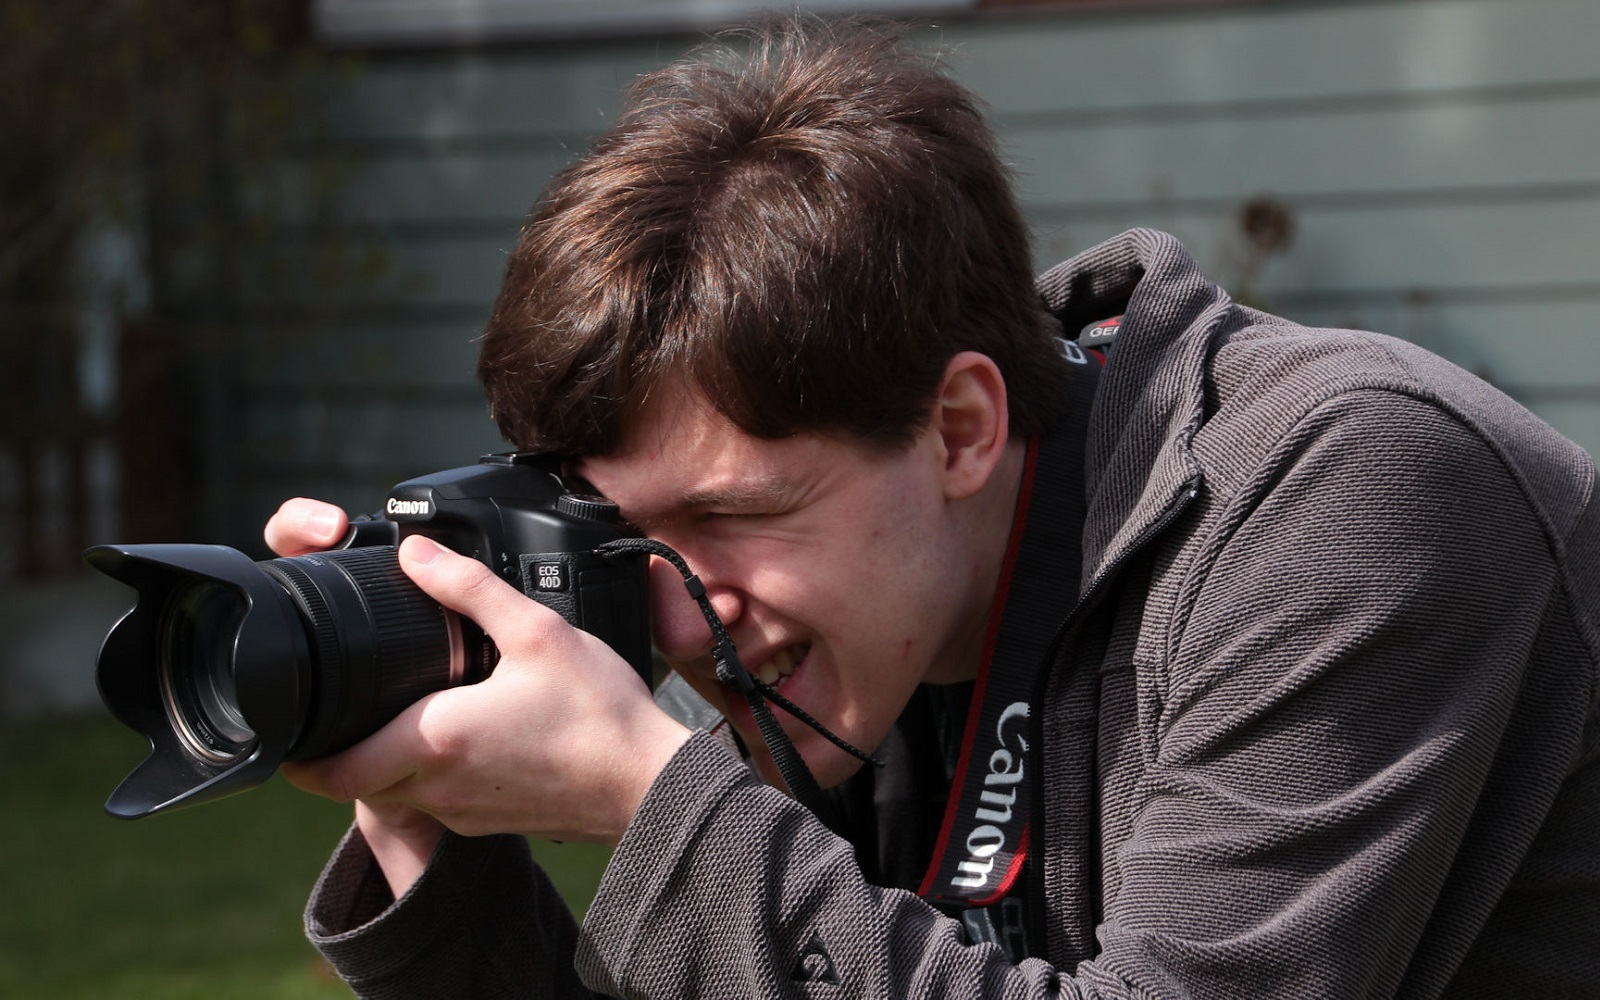
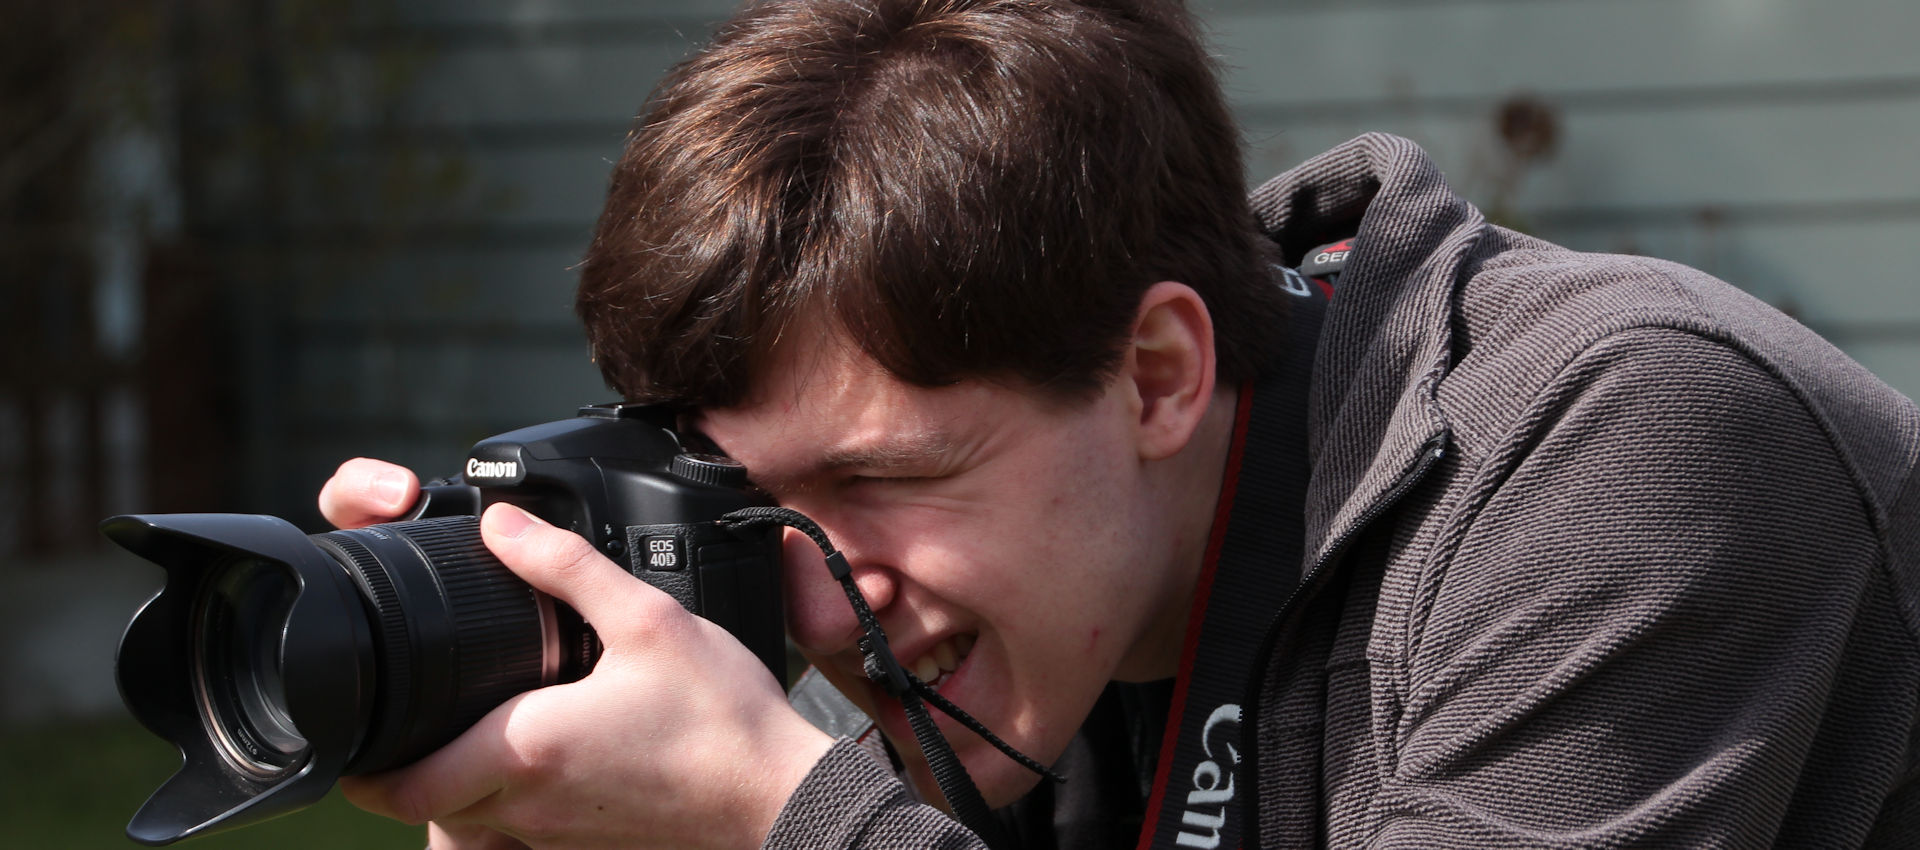
Website Submission 2
Site Wide:
- Corrected minor spelling and grammar errors
- Added drop shadow to images for better visibility
- Updated font to Roboto across the whole site
- Changed line spacing to improve readability
- Made all top photos the same aspect ratio for consistency

index.html
- Centered the text between he image and the edge of the site

design.html
- Added a top image

diff --git a/photography.html b/photography.html
@@ -9,12 +9,12 @@
 	<link rel="icon" type="image/x-icon" href="images/favicon.png">
 	<link rel="preconnect" href="https://fonts.googleapis.com">
 	<link rel="preconnect" href="https://fonts.gstatic.com" crossorigin>
-	<link href="https://fonts.googleapis.com/css2?family=PT+Serif:ital,wght@0,400;0,700;1,400;1,700&family=Roboto:ital,wght@0,100;0,300;0,400;0,500;0,700;0,900;1,100;1,300;1,400;1,500;1,700;1,900&display=swap" rel="stylesheet">
+	<link href="https://fonts.googleapis.com/css2?family=Roboto:ital,wght@0,100;0,300;0,400;0,500;0,700;0,900;1,100;1,300;1,400;1,500;1,700;1,900&display=swap" rel="stylesheet">
 </head>
 <body>
 
 	<div id="container">
-	
+
 		<!-- Use the header area for the website name or logo -->
 		<header>
 			<a href="index.html"><img src="images/logo.png" alt="Isaac's Portfolio Logo"></a>
@@ -31,7 +31,7 @@
 		</nav>
 		
 		<!-- Top Image -->
-		<div id="top" class="tab-desk" class="round">
+		<div id="top" class="tab-desk">
 			<img src="images/photographer.jpg" alt="Isaac taking a picture">
 		</div>
 		
@@ -70,7 +70,7 @@
 			
 				<h1>Fourth of July</h1>
 				<img src="images/fireworks.jpg" alt="Fireworks lighting up the night sky" class="round">
-				<p>Fireworks are not easy to get good pictures of and this one came out great. I had to use a triopd and manual focus to keep the shot from bluring, and I think the timing was just about right to fully capture the spectical.</p>
+				<p>Fireworks are not easy to get good pictures of and this one came out great. I had to use a triopd and manual focus to keep the shot from bluring, and I think the timing was just about right to fully capture the spectacle.</p>
 				<ul class="tab-desk">
 					<li>ISO 200</li>
 					<li>2"</li>
@@ -86,7 +86,7 @@
 				<p>Here is a quick overview of the three main settings to control when shooting manual photos.</p>
 				<dl>
 					<dt>Aperture</dt>
-					<dd>The aperture setting contols how big the opening in the camera lens is. This setting is often represented by a f/ number, also known as an f-stop. The small the number the bigger the opening and the more light that is let in. A larger aputure can also create a sallower depth of field, often associated with portrait shots.</dd>
+					<dd>The aperture setting contols how big the opening in the camera lens is. This setting is often represented by a f/number, also known as an f-stop. The small the number the bigger the opening and the more light that is let in. A larger aputure can also create a sallower depth of field, often associated with portrait shots.</dd>
 					
 					<dt>Shutter Speed</dt>
 					<dd>The shutter speed setting controls how long the shutter is open when a picture is taken. This setting is often represented in seconds. The smaller the number the faster the speed and the short that image sensor is exposed. A faster shutter speed can help to freeze motion, but can result in darker images.</dd>
@@ -105,6 +105,8 @@
 		</footer>
 		
 	</div>
+	
+	<script src="scripts/script.js"></script>
 	
 </body>
 </html>

diff --git a/index.html b/index.html
@@ -9,7 +9,7 @@
 	<link rel="icon" type="image/x-icon" href="images/favicon.png">
 	<link rel="preconnect" href="https://fonts.googleapis.com">
 	<link rel="preconnect" href="https://fonts.gstatic.com" crossorigin>
-	<link href="https://fonts.googleapis.com/css2?family=PT+Serif:ital,wght@0,400;0,700;1,400;1,700&family=Roboto:ital,wght@0,100;0,300;0,400;0,500;0,700;0,900;1,100;1,300;1,400;1,500;1,700;1,900&display=swap" rel="stylesheet">
+	<link href="https://fonts.googleapis.com/css2?family=Roboto:ital,wght@0,100;0,300;0,400;0,500;0,700;0,900;1,100;1,300;1,400;1,500;1,700;1,900&display=swap" rel="stylesheet">
 </head>
 <body>
 
@@ -40,7 +40,7 @@
 		
 			<div class="mobile">
 			
-				<p>Welcome to my portfolio. Here you can find some examples of my favorite works from over the year.</p>
+				<p class="opening">Welcome to my portfolio. Here you can find some examples of my favorite works from over the years.</p>
 				
 				<p>I plan on updating the pages with more highlights of my work as time goes on. At this point there is a page for <span class="action"><a href="photography.html">photography</a></span>, <span class="action"><a href="graphic.html">graphic design</a></span>, and <span class="action"><a href="drawing.html">drawing</a></span>. In the future I plan on adding pages for game design and programming.</p>
 				
@@ -50,11 +50,13 @@
 			
 			<div class="tab-desk" id="splash">
 				
-				<p>Welcome to my portfolio. Here you can find some examples of my favorite works from over the year.</p>
+				<div class="centext">
+				<p class="opening">Welcome to my portfolio. Here you can find some examples of my favorite works from over the years.</p>
 				
-				<p>I plan on updating the pages with more highlights of my work as time goes on. At this point there is a page for <span class="action"><a href="photography.html">photography</a></span>, <span class="action"><a href="graphic.html">graphic design</a></span>, and <span class="action"><a href="drawing.html">drawing</a></span>. In the future I plan on adding pages for game design and programming.</p>
+				<p>I plan on updating the pages with more highlights of my work as time goes on. At this point there are pages for <span class="action"><a href="photography.html">photography</a></span>, <span class="action"><a href="graphic.html">graphic design</a></span>, and <span class="action"><a href="drawing.html">drawing</a></span>. In the future I plan on adding pages for game design and programming.</p>
 				
 				<p>Feel free to have a look around at some of the work I've done. There is photography and graphic design from high school and drawing from college ART 101.</p>
+				</div>
 				
 			</div>
 			
@@ -68,6 +70,8 @@
 		</footer>
 		
 	</div>
+	
+	<script src="scripts/script.js"></script>
 	
 </body>
 </html>

diff --git a/graphic.html b/graphic.html
@@ -9,12 +9,12 @@
 	<link rel="icon" type="image/x-icon" href="images/favicon.png">
 	<link rel="preconnect" href="https://fonts.googleapis.com">
 	<link rel="preconnect" href="https://fonts.gstatic.com" crossorigin>
-	<link href="https://fonts.googleapis.com/css2?family=PT+Serif:ital,wght@0,400;0,700;1,400;1,700&family=Roboto:ital,wght@0,100;0,300;0,400;0,500;0,700;0,900;1,100;1,300;1,400;1,500;1,700;1,900&display=swap" rel="stylesheet">
+	<link href="https://fonts.googleapis.com/css2?family=Roboto:ital,wght@0,100;0,300;0,400;0,500;0,700;0,900;1,100;1,300;1,400;1,500;1,700;1,900&display=swap" rel="stylesheet">
 </head>
 <body>
 
 	<div id="container">
-	
+
 		<!-- Use the header area for the website name or logo -->
 		<header>
 			<a href="index.html"><img src="images/logo.png" alt="Isaac's Portfolio Logo"></a>
@@ -29,6 +29,11 @@
 				<li><a href="drawing.html">Drawing</a></li>
 			</ul>
 		</nav>
+		
+		<!-- Top Image -->
+		<div id="top" class="tab-desk">
+			<img src="images/glitch.jpg" alt="Graphic design written in a glitched design">
+		</div>
 		
 		<!-- Use the main area to add the main content of the webpage -->
 		<main>
@@ -65,6 +70,8 @@
 		</footer>
 		
 	</div>
+	
+	<script src="scripts/script.js"></script>
 	
 </body>
 </html>

diff --git a/css/styles.css b/css/styles.css
@@ -78,20 +78,29 @@ nav li a {
 main {
 	background-color: #fff;
 	padding: 2%;
-	font-size: 1.15em;
-	font-family: "PT Serif", serif;
+	font-size: 1.25em;
+	font-family: "Roboto", sans-serif;
+	line-height: 1.3;
+}
+
+.opening {
+	font-weight: 300;
 }
 
 .action a {
-	font-size: 1.35em;
-	color: #4d1919;
+	font-size: 1.08em;
+	color: #7d1919;
 	font-weight: bold;
 	text-decoration: none;
 }
+
+.action a:hover {
+	text-decoration: underline;
+}
 	
-	#portraitphoto {
-		margin: 0 auto;
-	}
+#portraitphoto {
+	margin: 0 auto;
+}
 
 #stars, #chicken, #fireworks, #lowpoly, #christmascard, #banners, #lego, #selfportrait, #selfportaitfinal {
 	margin: 0 2%;
@@ -99,6 +108,7 @@ main {
 
 .round {
 	border-radius: 8px;
+	box-shadow: 0 4px 8px 0 rgba(0, 0, 0, 0.2), 0 6px 20px 0 rgba(0, 0, 0, 0.19);
 }
 
 /* Style rules for footer content */
@@ -139,10 +149,14 @@ footer p {
 	}
 	
 	nav li a {
-		padding: 0.1em 0.75am;
+		padding: 0.1em 0.75em;
 	}
 	
 	/* Tablet Viewport: Style rules for main content area */
+	main {
+		line-height: 1.8;
+	}
+	
 	main ul {
 		margin: 0 0 4% 10%;
 	}
@@ -217,6 +231,11 @@ footer p {
 	#splash {
 		float: left;
 		width: 65%;
+	}
+	
+	.centext {
+		margin: auto;
+		position: relative;
 		max-width: 800px;
 	}
 	

diff --git a/drawing.html b/drawing.html
@@ -9,12 +9,12 @@
 	<link rel="icon" type="image/x-icon" href="images/favicon.png">
 	<link rel="preconnect" href="https://fonts.googleapis.com">
 	<link rel="preconnect" href="https://fonts.gstatic.com" crossorigin>
-	<link href="https://fonts.googleapis.com/css2?family=PT+Serif:ital,wght@0,400;0,700;1,400;1,700&family=Roboto:ital,wght@0,100;0,300;0,400;0,500;0,700;0,900;1,100;1,300;1,400;1,500;1,700;1,900&display=swap" rel="stylesheet">
+	<link href="https://fonts.googleapis.com/css2?family=Roboto:ital,wght@0,100;0,300;0,400;0,500;0,700;0,900;1,100;1,300;1,400;1,500;1,700;1,900&display=swap" rel="stylesheet">
 </head>
 <body>
 
 	<div id="container">
-	
+
 		<!-- Use the header area for the website name or logo -->
 		<header>
 			<a href="index.html"><img src="images/logo.png" alt="Isaac's Portfolio Logo"></a>
@@ -31,7 +31,7 @@
 		</nav>
 		
 		<!-- Top Image -->
-		<div id="top" class="tab-desk" class="round">
+		<div id="top" class="tab-desk">
 			<img src="images/ram.jpg" alt="Conte drawing of a ram skull">
 		</div>
 		
@@ -70,6 +70,8 @@
 		</footer>
 		
 	</div>
+	
+	<script src="scripts/script.js"></script>
 	
 </body>
 </html>

diff --git a/template.html b/template.html
@@ -9,7 +9,7 @@
 	<link rel="icon" type="image/x-icon" href="images/favicon.png">
 	<link rel="preconnect" href="https://fonts.googleapis.com">
 	<link rel="preconnect" href="https://fonts.gstatic.com" crossorigin>
-	<link href="https://fonts.googleapis.com/css2?family=PT+Serif:ital,wght@0,400;0,700;1,400;1,700&family=Roboto:ital,wght@0,100;0,300;0,400;0,500;0,700;0,900;1,100;1,300;1,400;1,500;1,700;1,900&display=swap" rel="stylesheet">
+	<link href="https://fonts.googleapis.com/css2?family=Roboto:ital,wght@0,100;0,300;0,400;0,500;0,700;0,900;1,100;1,300;1,400;1,500;1,700;1,900&display=swap" rel="stylesheet">
 </head>
 <body>
 
@@ -44,6 +44,8 @@
 		</footer>
 		
 	</div>
+	
+	<script src="scripts/script.js"></script>
 	
 </body>
 </html>
